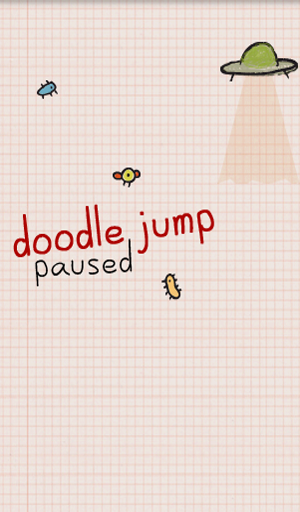
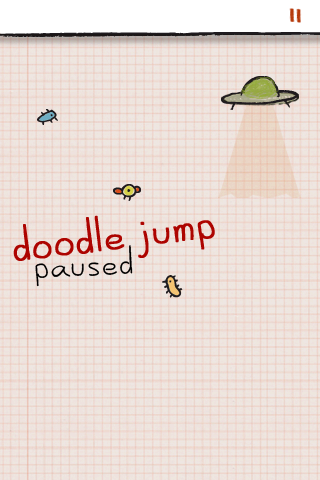
Design of PauseScreen

diff --git a/DoodleJump2/core/src/com/tq/doodle/Screens/PauseScreen.java b/DoodleJump2/core/src/com/tq/doodle/Screens/PauseScreen.java
@@ -13,10 +13,18 @@ public class PauseScreen implements Screen {
 
     private DoodleJump game;
     private Texture background_pause;
+    private Texture menuBtn;
+    private Texture resumeBtn;
+
+    public static final int btn_width = 140;
+    public static final int btn_height = 60;
+
 
     public PauseScreen (DoodleJump game){
         this.game = game;
         this.background_pause = new Texture("background_pause.png");
+        this.menuBtn = new Texture("menubtn.png");
+        this.resumeBtn = new Texture("resume.png");
     }
 
     public void update(float dt){
@@ -25,6 +33,10 @@ public class PauseScreen implements Screen {
     }
 
     public void handleInput(float dt){
+
+        //Voltar para o PlayScreen
+
+        //Ir para o Menu Inicial
 
     }
 
@@ -38,7 +50,9 @@ public class PauseScreen implements Screen {
         Gdx.gl.glClearColor(0, 0, 0, 1);
         Gdx.gl.glClear(GL20.GL_COLOR_BUFFER_BIT);
         game.batch.begin();
-        game.batch.draw(background_pause, 0, 0, Gdx.graphics.getWidth(), Gdx.graphics.getHeight());
+        game.batch.draw(background_pause, 0, 0, Gdx.graphics.getWidth(), Gdx.graphics.getHeight()); //desenhar background
+        game.batch.draw(menuBtn, Gdx.graphics.getWidth()/2 - btn_width/2 - 30, Gdx.graphics.getHeight()/2 -350 , btn_width, btn_height);
+        game.batch.draw(resumeBtn, Gdx.graphics.getWidth()/2 - btn_width/2 - 30, Gdx.graphics.getHeight()/2 - 230, btn_width, btn_height);
         game.batch.end();
     }
 
@@ -60,5 +74,7 @@ public class PauseScreen implements Screen {
 
     @Override
     public void dispose() {
+        background_pause.dispose();
+        menuBtn.dispose();
     }
 }
